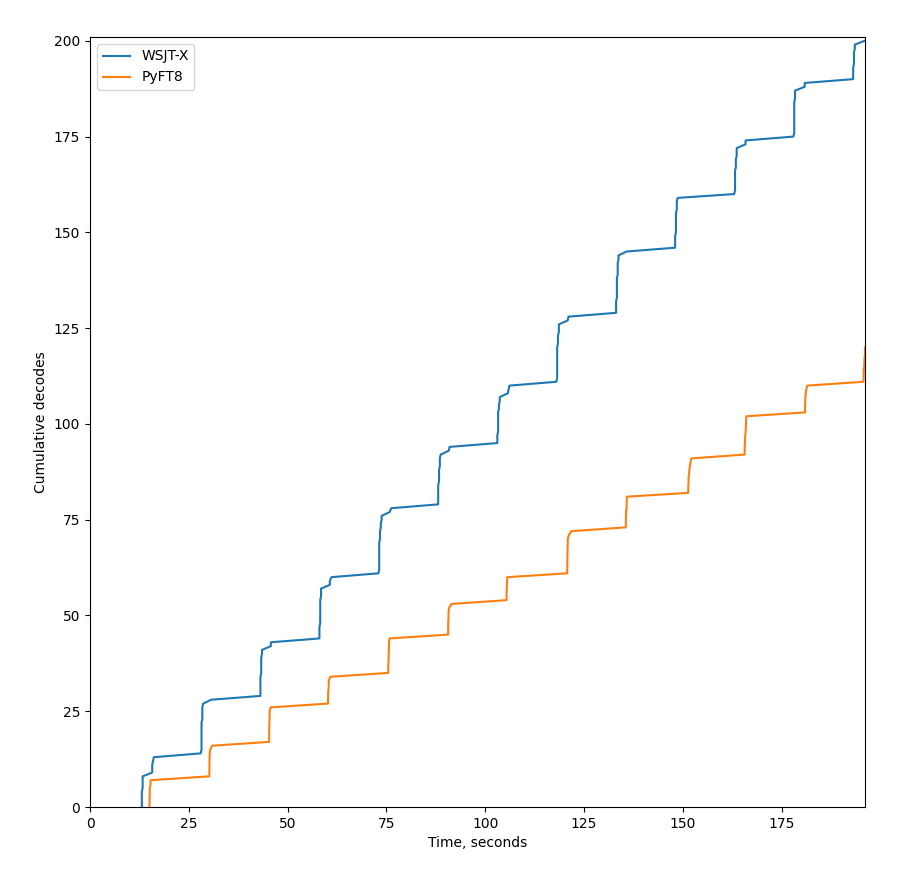
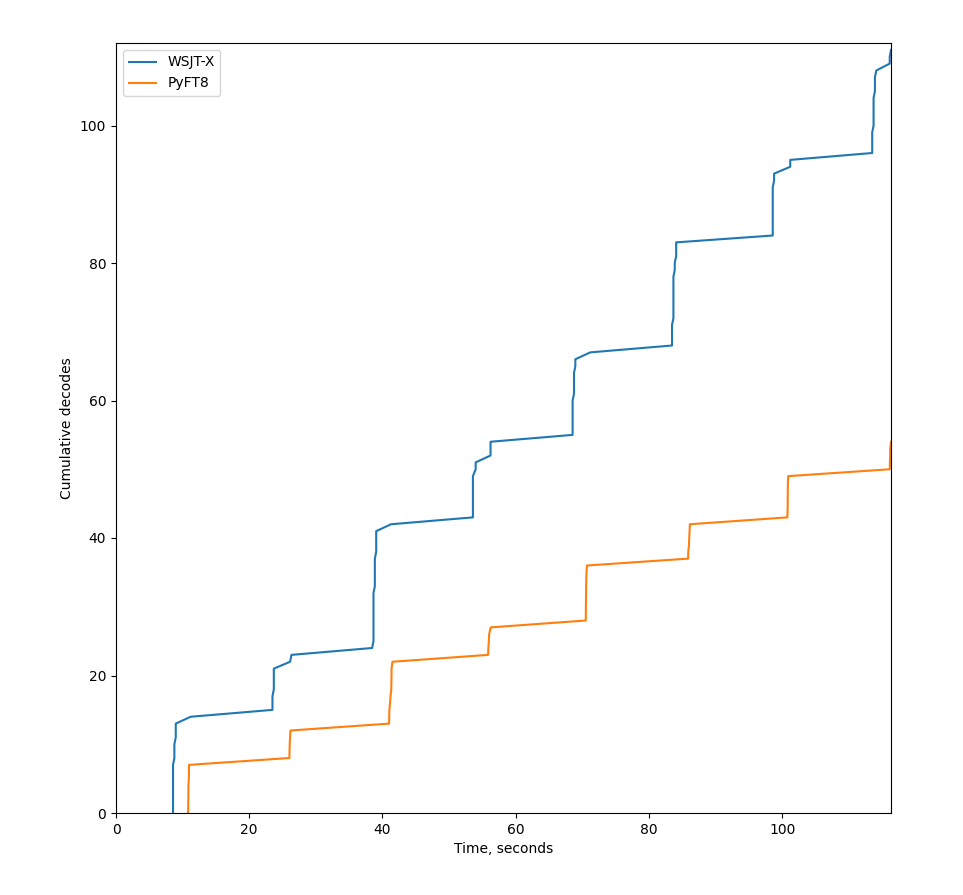
live tests

diff --git a/PyFT8/receiver.py b/PyFT8/receiver.py
@@ -422,7 +422,7 @@ class Receiver():
         print("Rx running")
         ticker_cycle_rollover = Ticker(0)
         ticker_search_for_syncs = Ticker(self.search_start_hop, timing_function = lambda: self.audio_in.search_grid_ptr, cycle_length = self.audio_in.search_hops_per_cycle)
-        debug_print_all = False
+        to_decode = []
         while True:
             time.sleep(0.040)
             if ticker_cycle_rollover.ticked():                
@@ -430,7 +430,7 @@ class Receiver():
             self.curr_cycle = int((self.audio_in.search_grid_ptr) / self.audio_in.search_hops_per_cycle)
             self.cycle_h0 = int(self.curr_cycle * T_CYC * SYM_RATE * self.audio_in.search_hps)
         
-            new_to_decode = []
+            
             for c in candidates:
                 if not c.demap_started:
                     cand_abs_h0_idx = c.origin['cycle'] * T_CYC * SYM_RATE * self.audio_in.search_hps + c.origin['t0'] * SYM_RATE * self.audio_in.search_hps
@@ -440,11 +440,11 @@ class Receiver():
                         c.demap(all_audio_spectrum)
                         c.demap_started = self.audio_in.search_grid_ptr
                 if c.llr_sd > self.llr_sd_min and not c.decode_completed:
-                    new_to_decode.append(c)
+                    if not c in to_decode:
+                        to_decode.append(c)
 
-
-            new_to_decode.sort(key=lambda c: c.llr_sd, reverse=True)
-            for c in new_to_decode[:55]:
+            to_decode.sort(key=lambda c: c.llr_sd, reverse=True)
+            for c in to_decode[:55]:
                 c.decode()
                 if c.msg_tuple:
                     key = c.cyclestart['string'] + ''.join(c.msg_tuple)
@@ -458,6 +458,7 @@ class Receiver():
                 global_time_utils.tlog(f"[Cycle manager] start search at hop {hstart} ({tstart:6.2f}s)", verbose = True)
                 cyclestart = global_time_utils.cyclestart(time.time())
                 candidates = self.search(cyclestart)
+                to_decode = []
                 hstop = self.audio_in.search_grid_ptr
                 if not self.on_busy_profile is None:
                    self.on_busy_profile(*self.get_busy_profile())